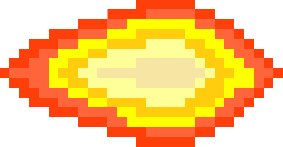
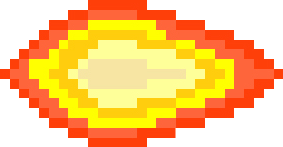
Resize Ship, Flip Red Ship/Bullet ,Create Hit Event

diff --git a/src/EventManager.java b/src/EventManager.java
@@ -61,15 +61,13 @@ public class EventManager {
  
         }
         //************************************* Fix Center *************************************//
-        double a = ShipLeft.getCenterY();;
+        double a = ShipLeft.getSpaceShip().getY();
         
       
       //************************************* Fix Center *************************************//
-        if(ShipLeft.getCenterY()+step>=100 && ShipLeft.getCenterY()+step<=500)
+        if(ShipLeft.getY_axis()+step>=100 && ShipLeft.getY_axis()+step<=500)
         {
-        	this.root.getChildren().remove(ShipLeft.getSpaceShip());
-            ShipLeft=new SpaceShip(120,a+step,ShipLeftinputstream);
-            this.root.getChildren().add(ShipLeft.getSpaceShip());
+        	ShipLeft.setY_axis(ShipLeft.getY_axis()+step);
         }
       
         	
@@ -95,13 +93,11 @@ public class EventManager {
         	step=100;
         }
       //************************************* Fix Center *************************************//
-        double a=ShipRight.getCenterY();
+        double a=ShipRight.getSpaceShip().getY();
       //************************************* Fix Center *************************************//
-        if(ShipRight.getCenterY()+step>=100 && ShipRight.getCenterY()+step<=500)
+        if(ShipRight.getSpaceShip().getY()+step>=100 && ShipRight.getSpaceShip().getY()+step<=500)
         {
-        	this.root.getChildren().remove(ShipRight.getSpaceShip());
-            ShipRight=new SpaceShip(680,a+step,ShipRightinputstream);
-            this.root.getChildren().add(ShipRight.getSpaceShip());
+        	ShipRight.setY_axis(ShipRight.getY_axis()+step);
         }
         
         step=0;
@@ -115,14 +111,14 @@ public class EventManager {
 	{	if(event.getCode()==KeyCode.D)
 	{
 		FileInputStream inputstream = new FileInputStream("res\\BlueShip\\Blue Ship bullet_.png");
-		Bullet v=new Bullet(ShipLeft.getCenterX(),ShipLeft.getCenterY(),1,inputstream);
+		Bullet v=new Bullet(ShipLeft.getSpaceShip().getX(),ShipLeft.getSpaceShip().getY(),1,inputstream);
 		bulletList.add(v);
 		root.getChildren().add(v.getImageView());
 	}
 	else if(event.getCode()==KeyCode.LEFT)
 		{
 			FileInputStream inputstream = new FileInputStream("res/RedShip/Red Ship bullet.png");
-			Bullet v=new Bullet(ShipRight.getCenterX(),ShipRight.getCenterY(),-1,inputstream);
+			Bullet v=new Bullet(ShipRight.getSpaceShip().getX(),ShipRight.getSpaceShip().getY(),-1,inputstream);
 			bulletList.add(v);
 			root.getChildren().add(v.getImageView());
 		}
@@ -166,6 +162,12 @@ public class EventManager {
 										y.getImageView().setVisible(false);
 										
 									}
+									
+								}
+								if(x.getX_axis()==ShipLeft.getX_axis() && x.getY_axis()==ShipLeft.getY_axis() && x.getImageView().isVisible())
+								{
+									x.getImageView().setVisible(false);
+									  
 								}
 								
 								

diff --git a/src/SpaceShip.java b/src/SpaceShip.java
@@ -9,8 +9,11 @@ public class SpaceShip {
 	private Image Ship;
 	//************************************* Fix Center *************************************//
 	public SpaceShip(double X_axis, double Y_axis, FileInputStream inputstream) {
-		Ship = new Image(inputstream, 276, 393, false, false);
+		Ship = new Image(inputstream, 50, 50, false, false);
+		
 		SpaceShip = new ImageView(Ship);
+		SpaceShip.setFitHeight(100);
+		SpaceShip.setFitWidth(50);
 		SpaceShip.setPreserveRatio(true);
 		SpaceShip.setX(X_axis);
 		SpaceShip.setY(Y_axis);
@@ -47,7 +50,7 @@ public class SpaceShip {
 		getSpaceShip().setY(y_axis);
 	}
 ///////////////////////////////////////////////////////************************************* Fix Center *************************************//
-	public double getCenterY() {
+	public double getdeenterY() {
 		return 0;
 
 	}

diff --git a/src/Main.java b/src/Main.java
@@ -18,7 +18,7 @@ public class Main extends Application
     {	Timer timer=new Timer();
         theStage.setTitle("BulletGod");
         Pane root = new Pane();
-        Scene theScene = new Scene( root,2000,2000);
+        Scene theScene = new Scene( root,800,600);
         theStage.setScene( theScene );
         
         theStage.setResizable(false);
